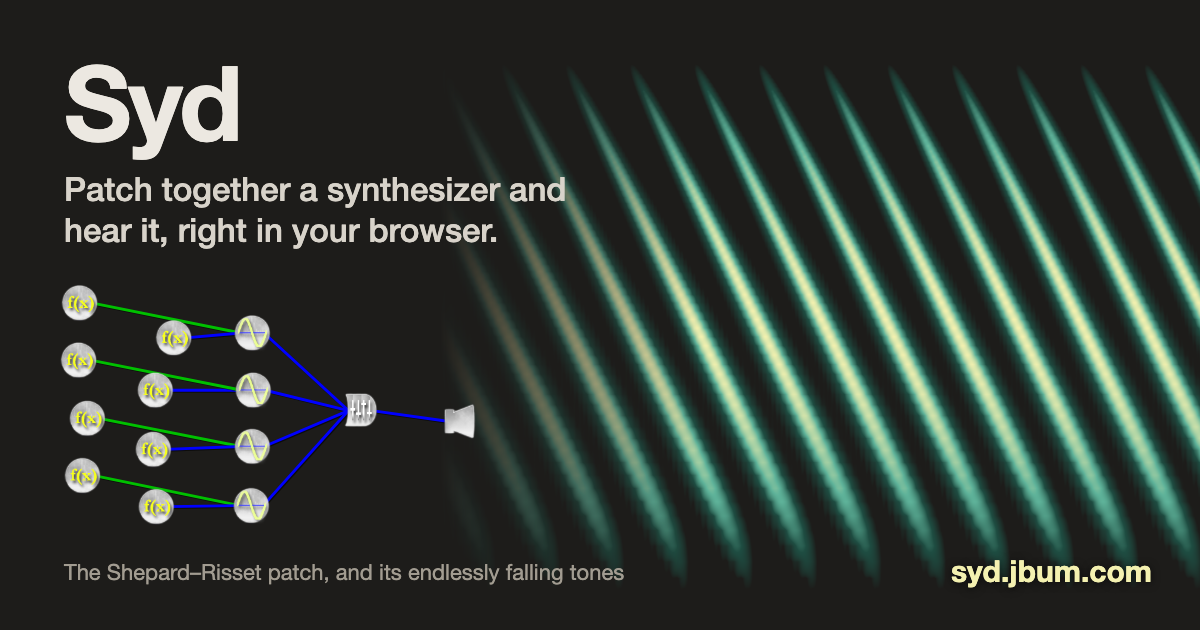
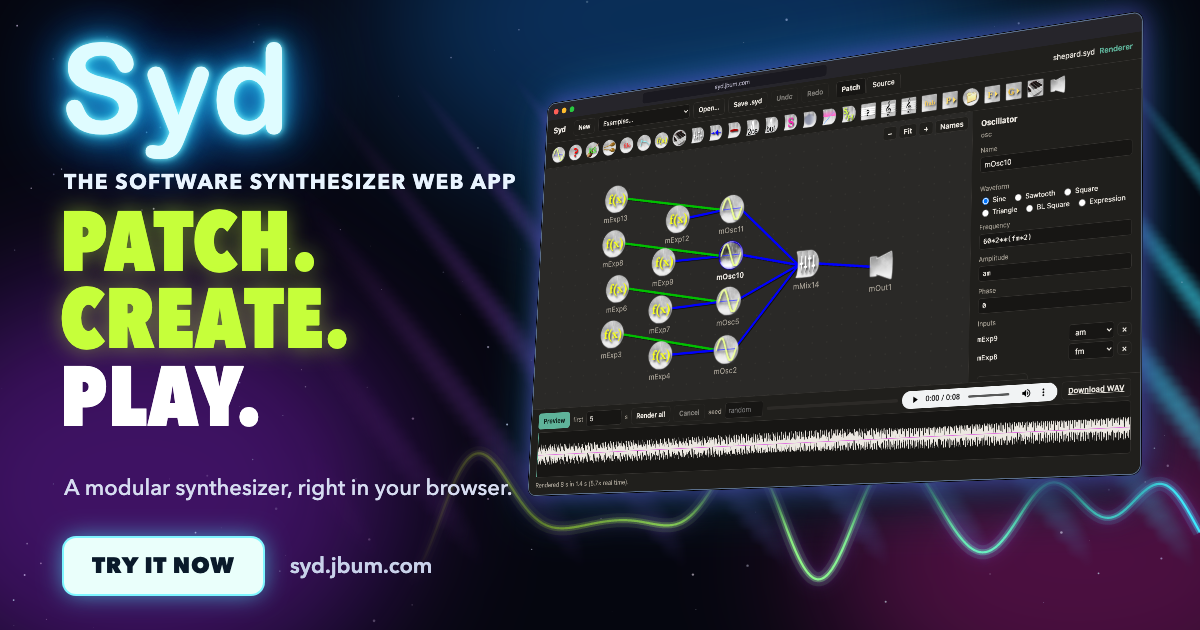
syd.jbum.com: a neon social card, after the Gemini mock-up, from the real app
The new card/card.png takes the Gemini mock-up's look -- neon "Syd", "PATCH.
CREATE. PLAY.", a Try-it-now button -- but every picture in it is real: the
editor itself, loaded live and tilted into the card, open on the Shepard patch
with its waveform in the preview, over a neon trace of 60 ms of that patch's
output and a faint spectrogram of its falling glissandi. (The mock-up's knob
modules and glowing cables aren't things Syd has.)

make_card.py builds it; shoot.js captures it by driving headless Chrome over
the DevTools protocol, since Chrome's own --screenshot waits for an idle page
and the editor animates forever. The og:image URL gains ?v=2 so sites that
cached the first card fetch this one.

Claude-Session: https://claude.ai/code/session_01RCs8zJpdMroXrq7r2m639V

diff --git a/csyd_200/build/card/shoot.js b/csyd_200/build/card/shoot.js
@@ -1,0 +1,42 @@
+#!/usr/bin/env node
+// Screenshot a page once it says it's ready (document.title === "ready"), by driving
+// headless Chrome over the DevTools protocol.  Chrome's own --screenshot waits for the
+// page to go idle, which the editor (always animating) never does.
+// usage: shoot.js <url> <out.png> <width> <height> <profile dir>
+const { spawn } = require("child_process"), fs = require("fs"), path = require("path");
+const [url, out, W, H, profile] = process.argv.slice(2);
+const CHROME = "/Applications/Google Chrome.app/Contents/MacOS/Google Chrome";
+const chrome = spawn(CHROME, ["--headless=new", "--disable-gpu", "--hide-scrollbars", "--remote-debugging-port=0",
+  `--user-data-dir=${profile}`, `--window-size=${W},${H}`, "--force-device-scale-factor=1", "about:blank"], { stdio: "ignore" });
+const sleep = (ms) => new Promise((r) => setTimeout(r, ms));
+const fail = (msg) => { console.error(msg); chrome.kill(); process.exit(1); };
+setTimeout(() => fail("timed out"), 60000).unref();
+
+(async () => {
+  const portFile = path.join(profile, "DevToolsActivePort");
+  while (!fs.existsSync(portFile) || !fs.readFileSync(portFile, "utf8").includes("\n")) await sleep(100);
+  const port = fs.readFileSync(portFile, "utf8").split("\n")[0];
+  const targets = await (await fetch(`http://127.0.0.1:${port}/json`)).json();
+  const ws = new WebSocket(targets.find((t) => t.type === "page").webSocketDebuggerUrl);
+  await new Promise((r) => ws.addEventListener("open", r));
+  let id = 0;
+  const pending = new Map();
+  ws.addEventListener("message", (e) => {
+    const m = JSON.parse(e.data);
+    if (pending.has(m.id)) { pending.get(m.id)(m); pending.delete(m.id); }
+  });
+  const send = (method, params = {}) => new Promise((r) => { pending.set(++id, r); ws.send(JSON.stringify({ id, method, params })); });
+  await send("Emulation.setDeviceMetricsOverride", { width: +W, height: +H, deviceScaleFactor: 1, mobile: false });
+  await send("Page.navigate", { url });
+  for (;;) {
+    const r = await send("Runtime.evaluate", { expression: "document.title" });
+    if (r.result && r.result.result && r.result.result.value === "ready") break;
+    await sleep(200);
+  }
+  await sleep(800);                                     // let images and the waveform settle
+  const shot = await send("Page.captureScreenshot", { format: "png", clip: { x: 0, y: 0, width: +W, height: +H, scale: 1 } });
+  fs.writeFileSync(out, Buffer.from(shot.result.data, "base64"));
+  ws.close();
+  chrome.kill();
+  process.exit(0);
+})().catch((e) => fail(String(e)));

diff --git a/csyd_200/web/index.html b/csyd_200/web/index.html
@@ -10,14 +10,14 @@
 <meta property="og:title" content="Syd: a modular synthesizer in your browser">
 <meta property="og:description" content="Patch together oscillators, filters, envelopes and scores, and hear them right away. Jim Bumgardner's Syd synthesizer, rendering on your own computer.">
 <meta property="og:url" content="https://syd.jbum.com/">
-<meta property="og:image" content="https://syd.jbum.com/assets/card.png">
+<meta property="og:image" content="https://syd.jbum.com/assets/card.png?v=2">
 <meta property="og:image:width" content="1200">
 <meta property="og:image:height" content="630">
-<meta property="og:image:alt" content="The Syd patch for Shepard–Risset tones, beside a spectrogram of its endlessly falling glissandi">
+<meta property="og:image:alt" content="Syd: patch, create, play. The Syd patch editor, open on the Shepard–Risset patch, with a neon trace of its waveform">
 <meta name="twitter:card" content="summary_large_image">
 <meta name="twitter:title" content="Syd: a modular synthesizer in your browser">
 <meta name="twitter:description" content="Patch together oscillators, filters, envelopes and scores, and hear them right away. Jim Bumgardner's Syd synthesizer, rendering on your own computer.">
-<meta name="twitter:image" content="https://syd.jbum.com/assets/card.png">
+<meta name="twitter:image" content="https://syd.jbum.com/assets/card.png?v=2">
 <style>
   :root {
     --bg: #faf8f4; --panel: #ffffff; --ink: #1f1d1a; --muted: #6b665e; --line: #e2ddd3;

diff --git a/csyd_200/web/csyd.html b/csyd_200/web/csyd.html
@@ -10,14 +10,14 @@
 <meta property="og:title" content="CSyd: render Syd patches in your browser">
 <meta property="og:description" content="Render Syd synthesizer patches to WAV files, up to ten minutes long, on your own computer. Nothing is uploaded.">
 <meta property="og:url" content="https://syd.jbum.com/csyd/">
-<meta property="og:image" content="https://syd.jbum.com/assets/card.png">
+<meta property="og:image" content="https://syd.jbum.com/assets/card.png?v=2">
 <meta property="og:image:width" content="1200">
 <meta property="og:image:height" content="630">
-<meta property="og:image:alt" content="The Syd patch for Shepard–Risset tones, beside a spectrogram of its endlessly falling glissandi">
+<meta property="og:image:alt" content="Syd: patch, create, play. The Syd patch editor, open on the Shepard–Risset patch, with a neon trace of its waveform">
 <meta name="twitter:card" content="summary_large_image">
 <meta name="twitter:title" content="CSyd: render Syd patches in your browser">
 <meta name="twitter:description" content="Render Syd synthesizer patches to WAV files, up to ten minutes long, on your own computer. Nothing is uploaded.">
-<meta name="twitter:image" content="https://syd.jbum.com/assets/card.png">
+<meta name="twitter:image" content="https://syd.jbum.com/assets/card.png?v=2">
 <style>
   :root {
     --bg: #faf8f4; --panel: #ffffff; --ink: #1f1d1a; --muted: #6b665e; --line: #e2ddd3;

diff --git a/csyd_200/build/card/make_card.py b/csyd_200/build/card/make_card.py
@@ -1,8 +1,12 @@
 #!/usr/bin/env python3
-"""Make the social-media card, web/assets/card.png (1200x630): the Shepard patch as the
-editor draws it, beside a spectrogram of what it sounds like.  Needs ./csyd built,
-numpy and Pillow, and Google Chrome (rendered headless).  usage: build/card/make_card.py"""
-import json, os, subprocess, tempfile, wave
+"""Make the social-media card, web/assets/card.png (1200x630), in the neon style of the
+Gemini mock-up but from the real thing: the editor itself (build/web, loaded live in
+headless Chrome and tilted into the card) with the Shepard patch open and its waveform
+in the preview, over neon traces of that patch's own spectrogram and waveform.
+
+Needs ./csyd and build/web built (build/build_web.py), numpy and Pillow, and Google
+Chrome.  usage: build/card/make_card.py"""
+import functools, http.server, json, os, subprocess, tempfile, threading, wave
 import numpy as np
 from PIL import Image
 
@@ -10,83 +14,148 @@ HERE = os.path.dirname(os.path.abspath(__file__))
 SRC = os.path.abspath(os.path.join(HERE, "..", ".."))
 ROOT = os.path.dirname(SRC)
 PATCH = os.path.join(ROOT, "csyd_102", "patches", "shepard.syd")
+APP = os.path.join(SRC, "build", "web")
 OUT = os.path.join(SRC, "web", "assets", "card.png")
 CHROME = "/Applications/Google Chrome.app/Contents/MacOS/Google Chrome"
 W, H = 1200, 630
-SPEC_W = 760                          # the spectrogram fills the card's right side
 
+if not os.path.exists(os.path.join(APP, "index.html")):
+    raise SystemExit("build/web is missing: run build/build_web.py first")
 tmp = tempfile.mkdtemp(prefix="sydcard-")
+os.symlink(APP, os.path.join(tmp, "app"))
 
-# 24 s of the patch: three turns of its 8 s cycle
-wav = os.path.join(tmp, "shepard.wav")
-subprocess.run([os.path.join(SRC, "csyd"), "-q", "-r", "7", "-d", "24", "-o", wav, os.path.basename(PATCH)],
-               cwd=os.path.dirname(PATCH), check=True, stdout=subprocess.DEVNULL, stderr=subprocess.DEVNULL)
-w = wave.open(wav)
-sr = w.getframerate()
-x = np.frombuffer(w.readframes(w.getnframes()), dtype=np.int16).astype(float) / 32768
 
-# Spectrogram on a log-frequency axis (the oscillators sweep 60-240 Hz), coloured from
-# the desk through the site's teal to the pale yellow of JSyd's oscillator icon
+def render(seconds, name):
+    path = os.path.join(tmp, name)
+    subprocess.run([os.path.join(SRC, "csyd"), "-q", "-r", "7", "-d", str(seconds), "-o", path, os.path.basename(PATCH)],
+                   cwd=os.path.dirname(PATCH), check=True, stdout=subprocess.DEVNULL, stderr=subprocess.DEVNULL)
+    w = wave.open(path)
+    return w.getframerate(), np.frombuffer(w.readframes(w.getnframes()), dtype=np.int16).astype(float) / 32768
+
+
+# What the editor's preview shows: the patch's 8 s
+render(8, "shepard.wav")
+
+# Neon spectrogram: 24 s (three turns of the patch's cycle) on a log-frequency axis,
+# as an RGBA image whose glissandi glow magenta to violet to cyan over transparency
+sr, x = render(24, "long.wav")
 n, hop = 8192, 128
 win = np.hanning(n)
 S = np.array([np.abs(np.fft.rfft(x[i:i + n] * win)) for i in range(0, len(x) - n, hop)]).T
 freqs = np.fft.rfftfreq(n, 1 / sr)
 f = np.geomspace(52, 280, H)
 img = np.array([np.interp(f, freqs, col) for col in S.T]).T[::-1]
-level = np.clip((20 * np.log10(img / img.max() + 1e-9) + 55) / 55, 0, 1)
-stops = np.array([[0.0, 0x1d, 0x1c, 0x1a], [0.45, 0x1f, 0x4d, 0x42], [0.75, 0x5f, 0xb3, 0x9a], [1.0, 0xf4, 0xf1, 0xb0]])
-rgb = np.stack([np.interp(level, stops[:, 0], stops[:, c]) for c in (1, 2, 3)], axis=-1).astype(np.uint8)
-Image.fromarray(rgb).resize((SPEC_W, H), Image.LANCZOS).save(os.path.join(tmp, "spec.png"))
+level = np.clip((20 * np.log10(img / img.max() + 1e-9) + 40) / 40, 0, 1)
+hue = np.linspace(0, 1, img.shape[1])[None, :].repeat(H, 0)       # magenta at left, cyan at right
+stops = np.array([[0.0, 0xff, 0x3c, 0xd2], [0.5, 0x9b, 0x5c, 0xff], [1.0, 0x3c, 0xe8, 0xff]])
+rgba = np.zeros(img.shape + (4,), np.uint8)
+for c in range(3):
+    rgba[..., c] = np.interp(hue, stops[:, 0], stops[:, c + 1])
+rgba[..., 3] = (level ** 1.6 * 255).astype(np.uint8)
+Image.fromarray(rgba, "RGBA").resize((W, H), Image.LANCZOS).save(os.path.join(tmp, "spec.png"))
 
-patch_text = open(PATCH, "rb").read().decode("latin-1")
-web = os.path.join(SRC, "web")
+# A scope trace: 60 ms of the waveform, where its four sines beat against each other
+start = int(sr * 5.0)
+scope = x[start:start + int(sr * 0.06)]
+scope = (scope / np.abs(scope).max()).round(4).tolist()
+
 html = """<!doctype html><html><head><meta charset="utf-8"><style>
-  html, body { margin: 0; width: %(W)dpx; height: %(H)dpx; overflow: hidden; background: #1d1c1a; }
-  body { position: relative; font-family: -apple-system, "Helvetica Neue", sans-serif; color: #ece8e1; }
-  #spec { position: absolute; right: 0; top: 0; width: %(SPEC_W)dpx; height: %(H)dpx;
-    -webkit-mask-image: linear-gradient(to right, transparent 0, #000 260px); }
-  #text { position: absolute; left: 64px; top: 50px; }
-  h1 { font-size: 104px; line-height: 1; margin: 0; letter-spacing: -0.03em; font-weight: 800; }
-  p { font-size: 33px; line-height: 1.25; margin: 14px 0 0; color: #d8d3ca; max-width: 520px; font-weight: 500; }
-  #patch { position: absolute; left: 40px; top: 268px; }
-  #cap { position: absolute; left: 64px; bottom: 44px; font-size: 22px; color: #a29c91; }
-  #url { position: absolute; right: 48px; bottom: 40px; font-size: 30px; font-weight: 700; color: #f4f1b0;
-    text-shadow: 0 1px 8px rgba(0,0,0,.6); }
+  html, body { margin: 0; width: %(W)dpx; height: %(H)dpx; overflow: hidden; }
+  body { position: relative; background: #05060f; color: #fff;
+    font-family: "Avenir Next", "Helvetica Neue", sans-serif; }
+  .glow { position: absolute; border-radius: 50%%; filter: blur(70px); }
+  #spec { position: absolute; inset: 0; opacity: .55;
+    -webkit-mask-image: linear-gradient(to right, transparent 25%%, #000 65%%); }
+  #stars { position: absolute; inset: 0; }
+  #scope { position: absolute; left: 0; top: 410px;
+    -webkit-mask-image: linear-gradient(to right, transparent 34%%, #000 52%%); }
+  #logo { position: absolute; left: 60px; top: 26px; font: 124px/1 "Arial Rounded MT Bold", sans-serif;
+    color: #dffcff; letter-spacing: 2px;
+    text-shadow: 0 0 6px #7ff6ff, 0 0 18px #2fd8ff, 0 0 42px #18a8ff, 0 0 80px #1170ff; }
+  #kicker { position: absolute; left: 64px; top: 168px; font-size: 21px; font-weight: 700; letter-spacing: .06em; color: #e9f4ff; }
+  #head { position: absolute; left: 60px; top: 206px; font-family: "Avenir Next Condensed"; font-weight: 800;
+    font-size: 84px; line-height: .92; letter-spacing: .01em; }
+  #head .lime { color: #c6ff3a; text-shadow: 0 0 22px rgba(198,255,58,.45); }
+  #sub { position: absolute; left: 64px; top: 474px; font-size: 22px; line-height: 1.3; color: #d6dcf0; font-weight: 500; }
+  #cta { position: absolute; left: 64px; top: 538px; padding: 13px 28px; border-radius: 12px; background: #eafffb;
+    color: #0a1a2a; font-weight: 800; font-size: 22px; letter-spacing: .03em;
+    box-shadow: 0 0 0 2px #7ff6ff, 0 0 24px rgba(80, 230, 255, .7); }
+  #url { position: absolute; left: 290px; top: 551px; font-size: 22px; color: #c9d2ea; font-weight: 600; }
+  #stage { position: absolute; left: 548px; top: 104px; width: 1280px; height: 800px; perspective: 2400px; }
+  #win { width: 1280px; height: 800px; transform-origin: 0 0;
+    transform: scale(.49) rotateY(-17deg) rotateX(5deg) rotateZ(-1.5deg); border-radius: 18px; overflow: hidden;
+    border: 2px solid rgba(160, 200, 255, .5); background: #171614;
+    box-shadow: 0 0 0 1px #000, 0 0 50px rgba(120, 90, 255, .55), 0 0 120px rgba(40, 200, 255, .35), 0 40px 80px rgba(0,0,0,.8); }
+  #bar { height: 34px; background: #26252b; display: flex; align-items: center; gap: 8px; padding: 0 14px; }
+  #bar i { width: 12px; height: 12px; border-radius: 50%%; display: block; }
+  #bar span { margin-left: 160px; flex: 0 0 420px; height: 22px; border-radius: 6px; background: #1a1920;
+    color: #a9a6b8; font: 13px/22px -apple-system, sans-serif; text-align: center; }
+  iframe { width: 1280px; height: 766px; border: 0; display: block; }
 </style></head><body>
+<div class="glow" style="left:-120px;top:280px;width:520px;height:420px;background:rgba(170,40,255,.35)"></div>
+<div class="glow" style="left:380px;top:-160px;width:620px;height:360px;background:rgba(20,140,255,.30)"></div>
+<div class="glow" style="left:820px;top:380px;width:520px;height:360px;background:rgba(255,40,190,.28)"></div>
 <img id="spec" src="spec.png">
-<div id="text"><h1>Syd</h1><p>Patch together a synthesizer and hear it, right in your browser.</p></div>
-<svg id="patch" width="560" height="290" xmlns="http://www.w3.org/2000/svg"></svg>
-<div id="cap">The Shepard&ndash;Risset patch, and its endlessly falling tones</div>
+<canvas id="stars" width="%(W)d" height="%(H)d"></canvas>
+<canvas id="scope" width="%(W)d" height="200"></canvas>
+<div id="stage"><div id="win">
+  <div id="bar"><i style="background:#ff5f57"></i><i style="background:#febc2e"></i><i style="background:#28c840"></i>
+    <span>syd.jbum.com</span></div>
+  <iframe id="app"></iframe>
+</div></div>
+<div id="logo">Syd</div>
+<div id="kicker">THE SOFTWARE SYNTHESIZER WEB APP</div>
+<div id="head"><span class="lime">PATCH.<br>CREATE.</span><br>PLAY.</div>
+<div id="sub">A modular synthesizer, right in your browser.</div>
+<div id="cta">TRY IT NOW</div>
 <div id="url">syd.jbum.com</div>
-<script src="file://%(web)s/syd.js"></script>
 <script>
-const ASSETS = "file://%(web)s/assets/";
-const p = Syd.parse(%(patch)s);
-const svg = document.getElementById("patch"), NS = "http://www.w3.org/2000/svg", NODE = 40, S = 0.97;
-const el = (n, a, par) => { const e = document.createElementNS(NS, n); for (const k in a) e.setAttribute(k, a[k]); (par || svg).appendChild(e); return e; };
-let x0 = 1e9, y0 = 1e9;
-for (const m of p.modules) { x0 = Math.min(x0, m.x); y0 = Math.min(y0, m.y); }
-const g = el("g", { transform: `scale(${S}) translate(${20 - x0},${16 - y0})` });
-const by = (l) => p.modules.find((m) => m.label === l);
-for (const d of p.modules) for (const i of d.inputs) {
-  const s = by(i.from), across = !(d.x < s.x + NODE);
-  const [a, b, c, e] = across ? [s.x + NODE - 8, s.y + NODE / 2, d.x + 8, d.y + NODE / 2]
-                              : [s.x + NODE / 2, s.y + NODE - 8, d.x + NODE / 2, d.y + 8];
-  el("path", { d: `M${a},${b}L${c},${e}`, stroke: "#000", "stroke-width": 3, opacity: .55, transform: "translate(1,1)" }, g);
-  el("path", { d: `M${a},${b}L${c},${e}`, stroke: Syd.linkColor(i.link), "stroke-width": 3, "stroke-linecap": "round" }, g);
+// stars
+const sc = document.getElementById("stars").getContext("2d");
+let seed = 7;
+const rnd = () => (seed = (seed * 16807) %% 2147483647) / 2147483647;
+for (let i = 0; i < 160; ++i) {
+  sc.fillStyle = `rgba(${200 + rnd() * 55},${200 + rnd() * 55},255,${0.15 + rnd() * 0.6})`;
+  sc.beginPath(); sc.arc(rnd() * %(W)d, rnd() * %(H)d, rnd() * 1.3, 0, 7); sc.fill();
 }
-for (const m of p.modules) {
-  const t = Syd.TYPES[m.type];
-  const back = el("svg", { x: m.x, y: m.y, width: NODE, height: NODE, viewBox: `${t.icon * 64} 0 64 64` }, g);
-  el("image", { href: ASSETS + "iconbacks.png", width: 256, height: 128 }, back);
-  const st = el("svg", { x: m.x, y: m.y, width: NODE, height: NODE, viewBox: `${t.stamp * 64} 0 64 64` }, g);
-  el("image", { href: ASSETS + "unitlabels.png", width: 1664, height: 64 }, st);
+// the scope trace, in glowing magenta-to-lime-to-cyan
+const scope = %(scope)s, cv = document.getElementById("scope"), g = cv.getContext("2d");
+const grad = g.createLinearGradient(0, 0, %(W)d, 0);
+grad.addColorStop(0, "#ff3cd2"); grad.addColorStop(0.45, "#c6ff3a"); grad.addColorStop(1, "#3ce8ff");
+for (const [w, a, b] of [[14, .12, 18], [6, .35, 8], [2.2, 1, 0]]) {
+  g.save(); g.strokeStyle = grad; g.lineWidth = w; g.globalAlpha = a; g.shadowColor = "#9b5cff"; g.shadowBlur = b;
+  g.beginPath();
+  scope.forEach((v, i) => { const px = i / (scope.length - 1) * %(W)d, py = 100 - v * 70; i ? g.lineTo(px, py) : g.moveTo(px, py); });
+  g.stroke(); g.restore();
 }
-</script></body></html>""" % {"W": W, "H": H, "SPEC_W": SPEC_W, "web": web, "patch": json.dumps(patch_text)}
-page = os.path.join(tmp, "card.html")
-open(page, "w").write(html)
+// the editor itself, on a first visit (so it opens the Shepard patch), dark, with its
+// rendered waveform in the preview and an oscillator selected
+localStorage.removeItem("syd-editor");
+localStorage.setItem("syd-names", "1");
+const frame = document.getElementById("app");
+frame.src = "app/index.html";
+frame.onload = async () => {
+  const w = frame.contentWindow;
+  w.document.documentElement.dataset.theme = "dark";
+  for (let i = 0; i < 100 && w.eval("patchName") !== "shepard.syd"; ++i) await new Promise((r) => setTimeout(r, 50));
+  const wav = await (await fetch("shepard.wav")).arrayBuffer();
+  w.eval("selection = new Set([byLabel('mOsc10')]); fit(); inspect();");
+  w.showWav(wav, 8);
+  w.eval("status('Rendered 8 s in 1.4 s (5.7× real time).')");
+  document.title = "ready";
+};
+</script></body></html>""" % {"W": W, "H": H, "scope": json.dumps(scope)}
+open(os.path.join(tmp, "card.html"), "w").write(html)
 
-subprocess.run([CHROME, "--headless=new", "--disable-gpu", "--hide-scrollbars", "--allow-file-access-from-files",
-                f"--window-size={W},{H}", "--force-device-scale-factor=1", "--virtual-time-budget=3000",
-                f"--screenshot={OUT}", "file://" + page], check=True, stdout=subprocess.DEVNULL, stderr=subprocess.DEVNULL)
+# serve tmp (the card, with the app beside it) so the card can reach into the editor
+class Quiet(http.server.SimpleHTTPRequestHandler):
+    def log_message(self, *a):
+        pass
+handler = functools.partial(Quiet, directory=tmp)
+server = http.server.ThreadingHTTPServer(("127.0.0.1", 0), handler)
+threading.Thread(target=server.serve_forever, daemon=True).start()
+url = f"http://127.0.0.1:{server.server_address[1]}/card.html"
+subprocess.run(["node", os.path.join(HERE, "shoot.js"), url, OUT, str(W), str(H), os.path.join(tmp, "profile")],
+               check=True, timeout=120)
+server.shutdown()
 print("wrote", OUT, Image.open(OUT).size)
